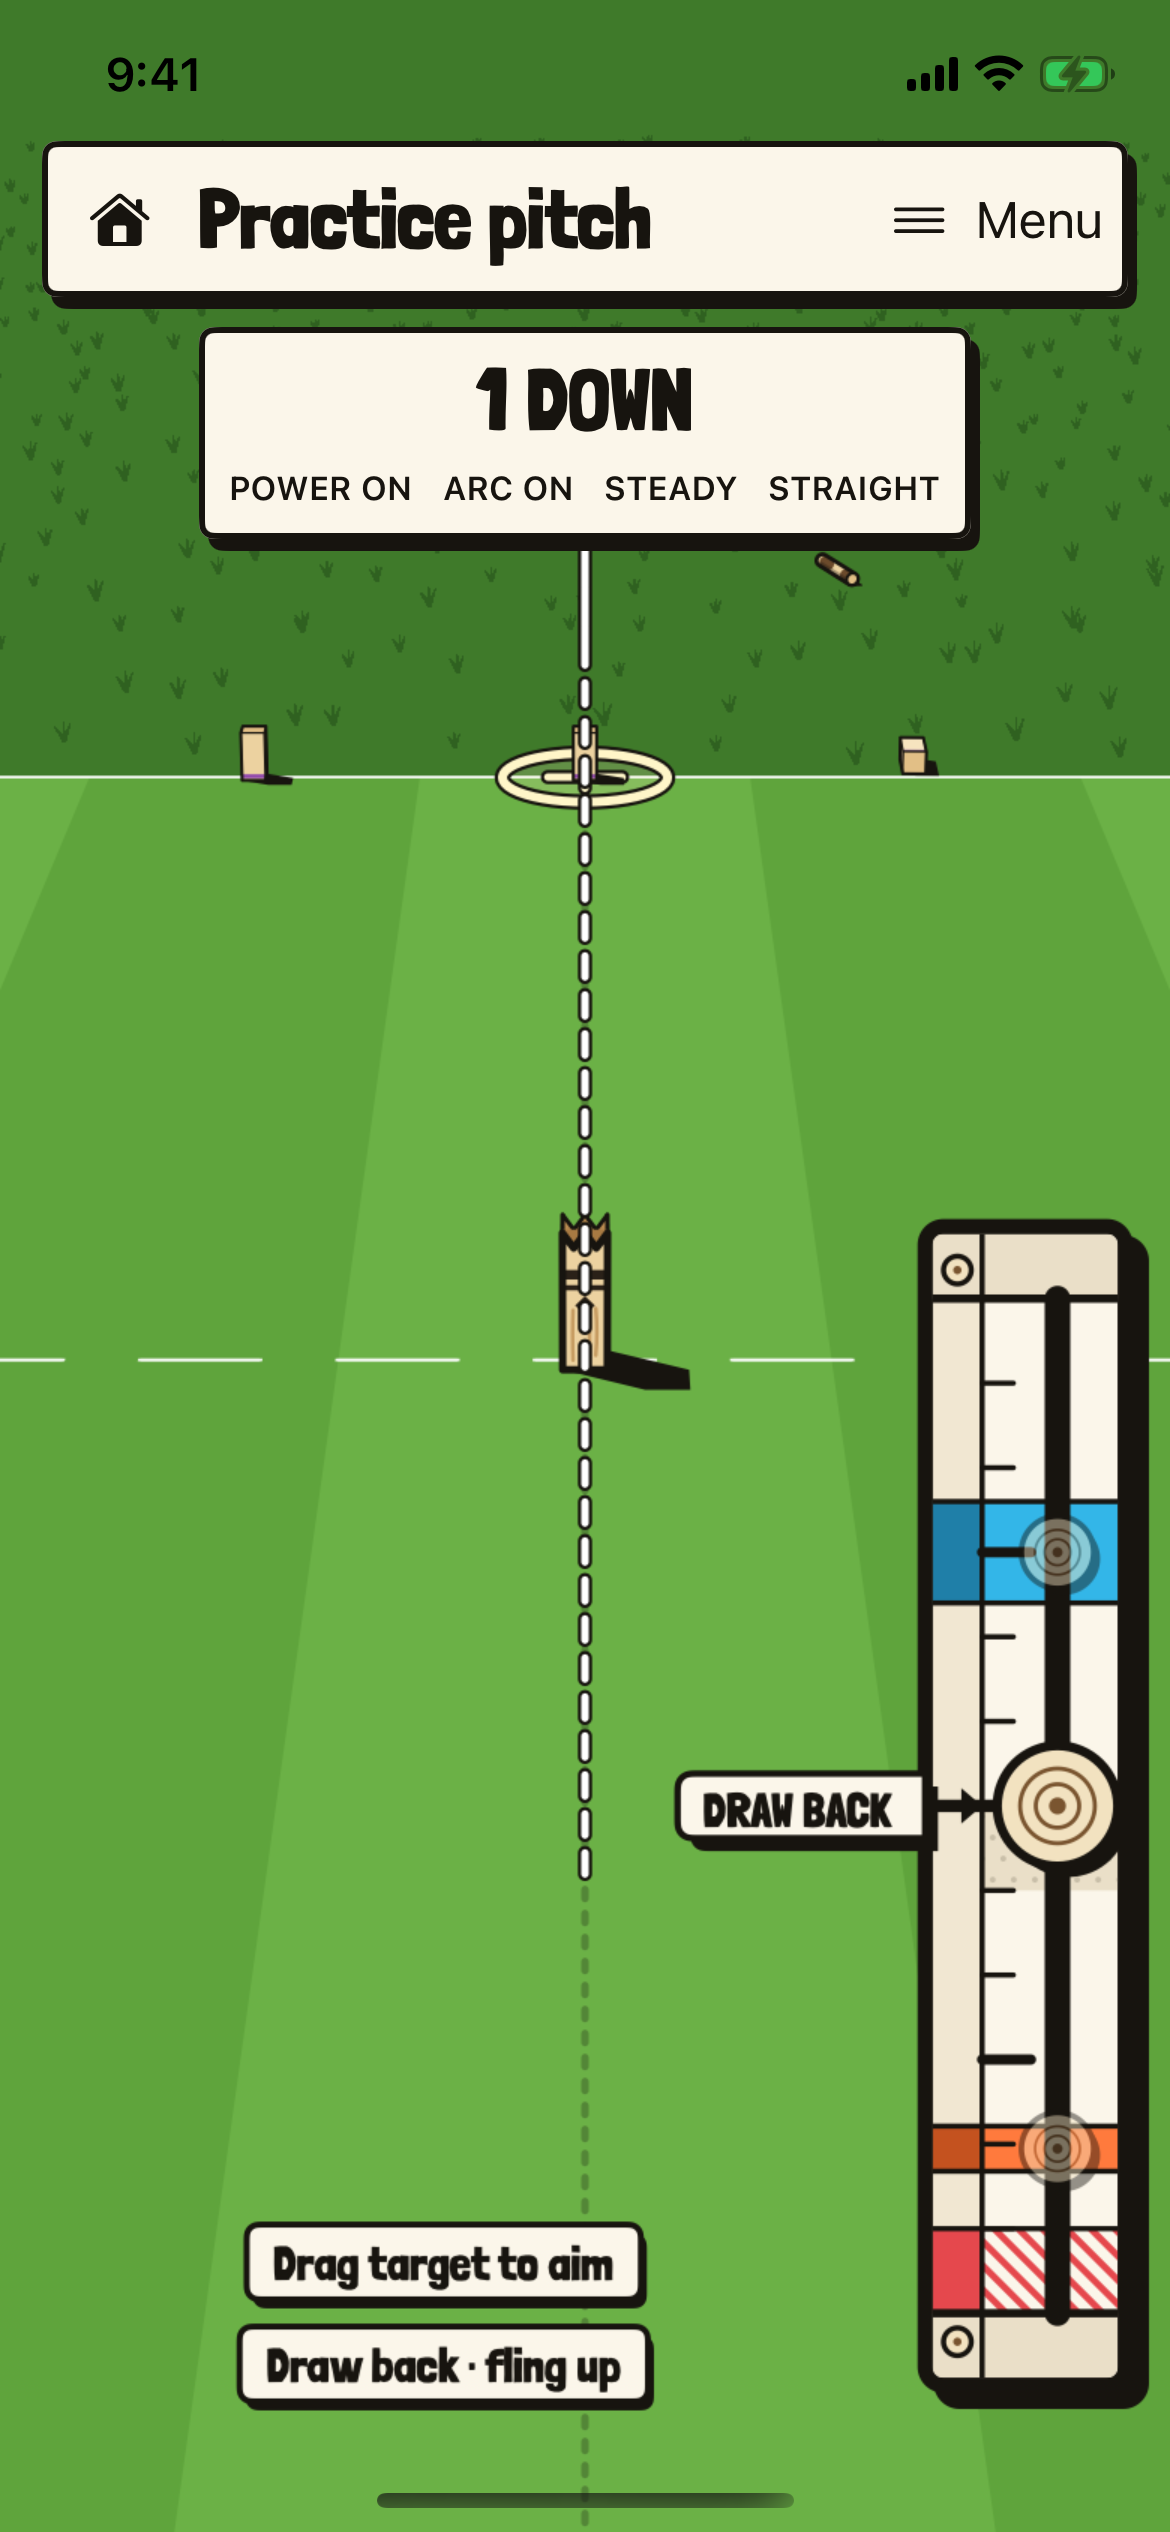
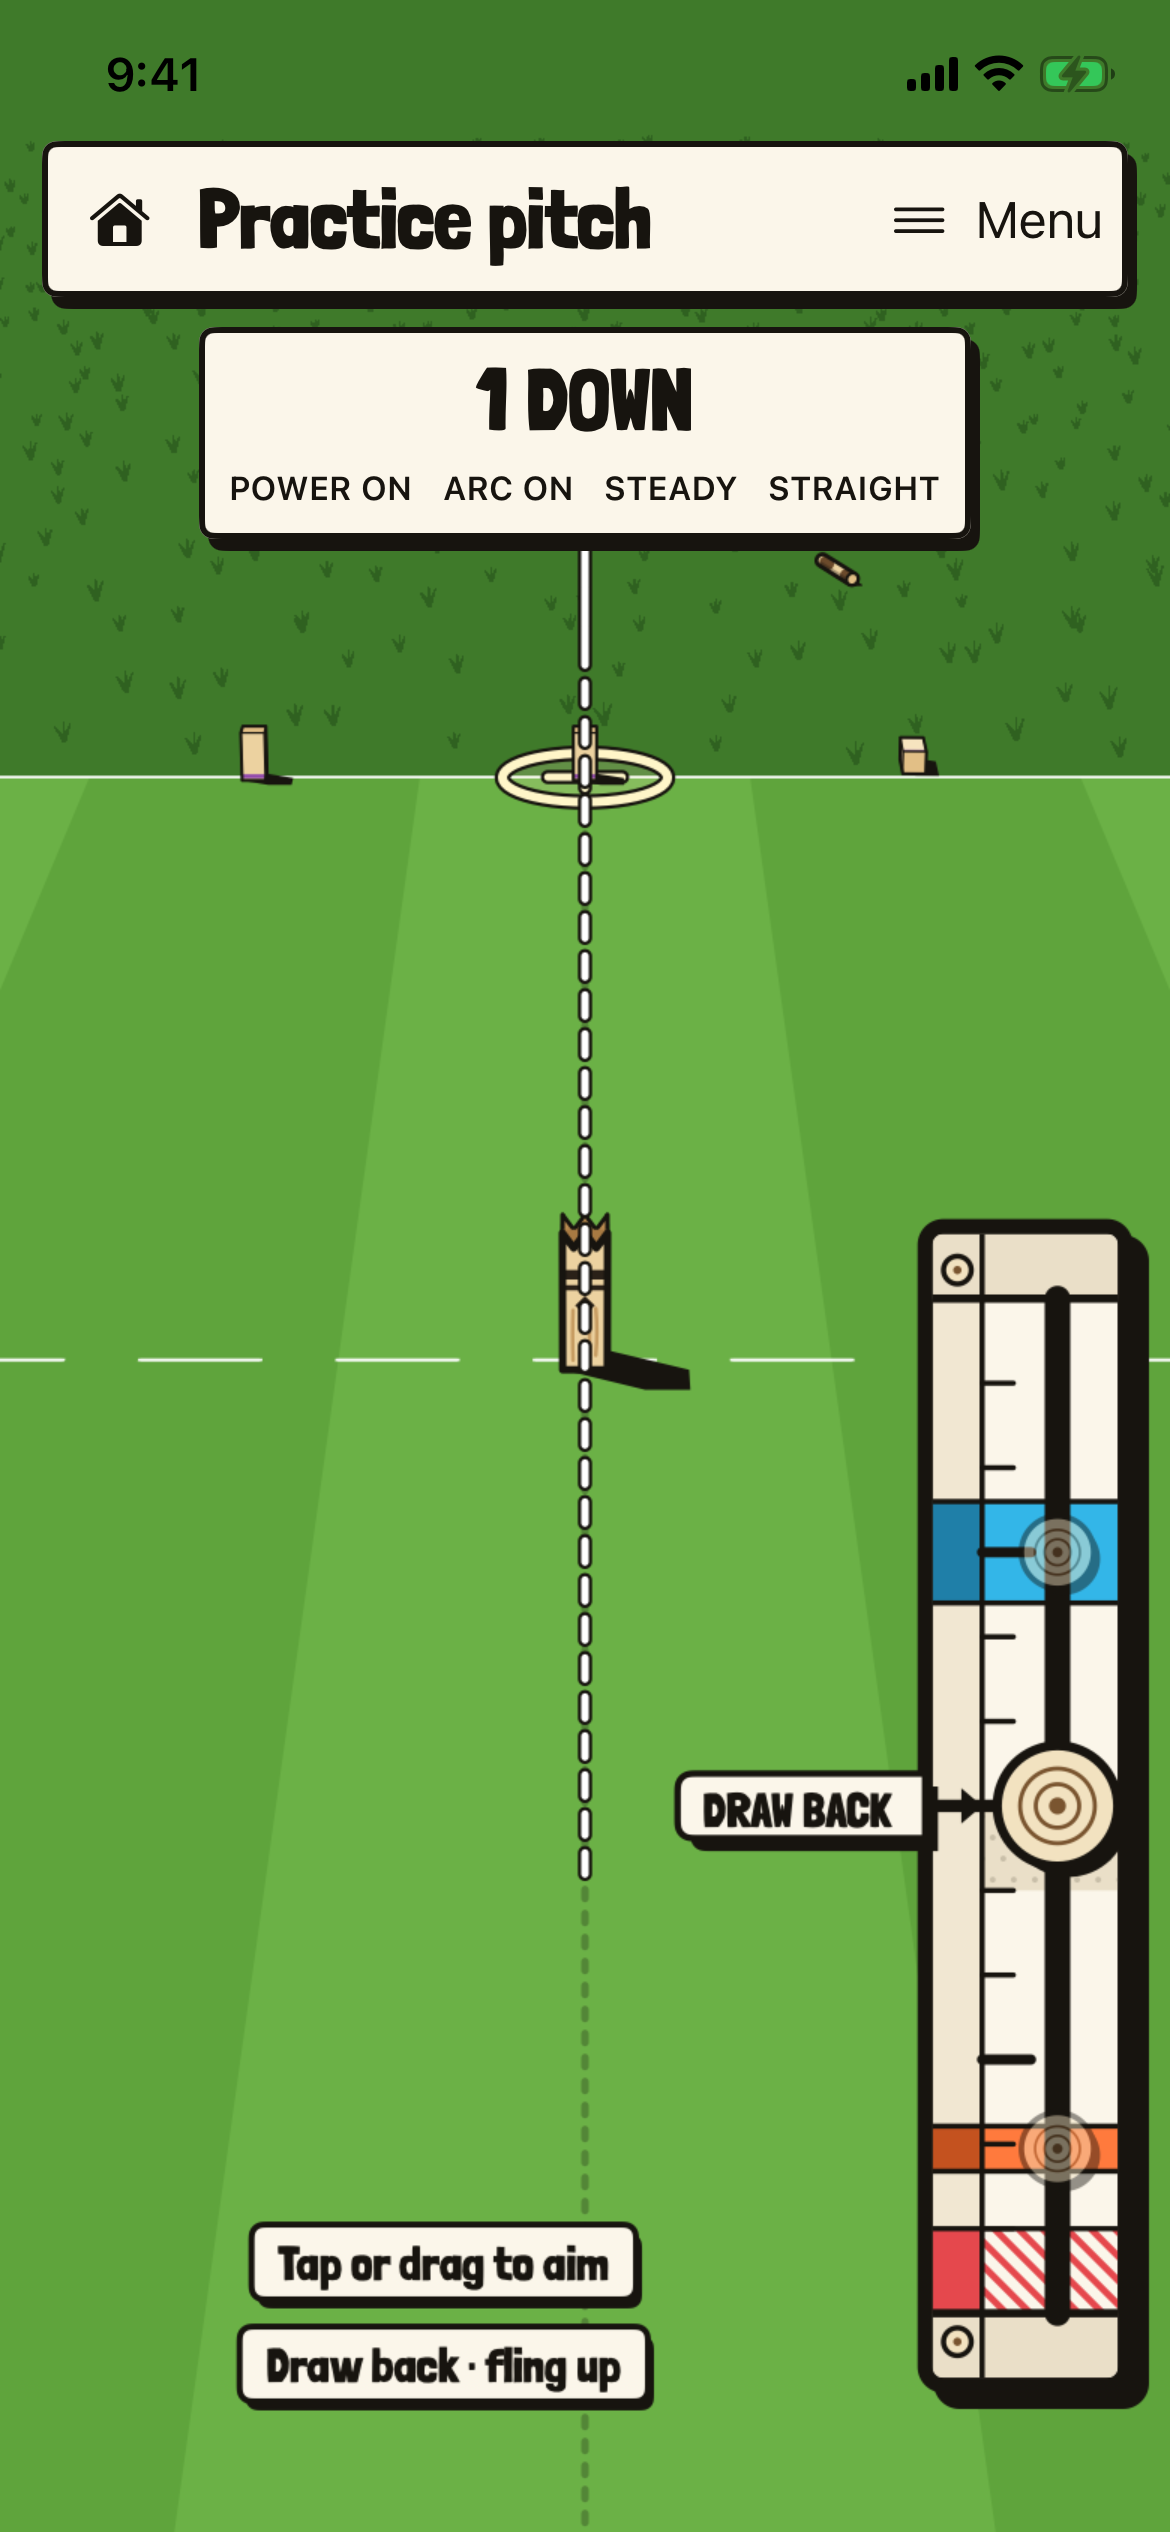
Review pictures for the coach, raise touch and feedback
New review states: the coach on the clock and on the linear meter
(learning, after a SLOW flick, and winding in the band), a raise
dragged past half way, a refused end tapped, and the feedback card in
both kinds online. The review tools pin pitch.throwsMade so the coach
appears only where asked. raise-refused.json is a pass-and-play raise
from the engine's own seeded match with invented team names.

Pictures replaced only where they changed: the new practice hint, the
raise panels, the menus, the score sheet's player ids and the report
card.

Changed region(s): [[0.1846, 0.8736, 0.5538, 0.9048], [0.3385, 0.9672, 0.6769, 0.9984]]

diff --git a/ThrowingWoodKit/Tests/KubbRendererTests/ControlsTests.swift b/ThrowingWoodKit/Tests/KubbRendererTests/ControlsTests.swift
@@ -459,6 +459,25 @@ import simd
     #expect(dragged && refusedSeen)
   }
 
+  /// Writes Fixtures/solo/raise-refused.json: the first raise of the seed 5 match
+  /// (invented teams North and South, pass and play) where the rules refuse one end,
+  /// for the review picture of a refused tap. Run with TW_WRITE_RAISE_FIXTURE=refused.
+  @Test(.enabled(if: ProcessInfo.processInfo.environment["TW_WRITE_RAISE_FIXTURE"] == "refused"))
+  func writeRaiseRefusedFixture() throws {
+    let acts = try realRaises()
+    for nth in 0..<16 {
+      guard let app = try atRealRaise(acts, nth), let need = app.need else { break }
+      let oks = need.ends?.map { $0.ok != false } ?? []
+      guard oks.contains(false) && oks.contains(true) else { continue }
+      let out = URL(fileURLWithPath: #filePath).deletingLastPathComponent()
+        .appending(path: "Fixtures/solo/raise-refused.json")
+      try Data(app.engine.call("snapshot").utf8).write(to: out, options: .atomic)
+      print("raise-refused: raise \(nth), side \(need.side ?? "?"), ends \(oks)")
+      return
+    }
+    Issue.record("no raise with a refused end")
+  }
+
   /// Writes Fixtures/solo/raise-many.json: the first raise of two or more kubbs
   /// for side A in a synthetic match (no names but You and Computer). Run with
   /// TW_WRITE_RAISE_FIXTURE=1; the planner engine throws for side A.

diff --git a/ThrowingWood/GameView.swift b/ThrowingWood/GameView.swift
@@ -64,7 +64,7 @@ struct GameView: View {
             case .onlineEntry, .join, .pitch, .invalidLink: OnlineCards(model: model)
             case .report:
               if let report = model.report {
-                ReportCard(model: model, report: report)
+                ReportCard(model: model, report: report, kind: reviewReportKind)
               }
             case .sheet:
               if let sheet = model.sheet {
@@ -112,6 +112,20 @@ struct GameView: View {
     } message: {
       Text(model.error ?? "")
     }
+  }
+
+  /// The feedback card's kind in the simulator's "report" and "feedback" reviews (else the
+  /// card's default).
+  private var reviewReportKind: ReportCard.Kind? {
+    #if targetEnvironment(simulator)
+      switch ProcessInfo.processInfo.environment["ONLINE_REVIEW"] {
+      case "report": .throw  // the review's match has no last throw yet
+      case "feedback": .feedback
+      default: nil
+      }
+    #else
+      nil
+    #endif
   }
 
   /// The room the linear meter takes, in the safe area's coordinates: the

diff --git a/ThrowingWood/OnlineReview.swift b/ThrowingWood/OnlineReview.swift
@@ -20,7 +20,7 @@
       case "flight": return model.playing
       case "shout": return p?.shouts.isEmpty == false && p?.board.handoff == nil
       case "winner": return p?.board.need?.kind == "over"
-      case "menu", "report": return p?.stage == .match
+      case "menu", "report", "feedback": return p?.stage == .match
       default: return p.map { String(describing: $0.stage) == mode } == true
       }
     }
@@ -33,7 +33,7 @@
           do { try await Task.sleep(for: .milliseconds(50)) } catch { return }
         }
         if mode == "menu" { model.screen = .menu }
-        if mode == "report", let online = model.online {
+        if mode == "report" || mode == "feedback", let online = model.online {
           model.perform {
             model.report = try online.captureReport(size: .zero, scale: 3)
             model.screen = .report

diff --git a/tools/solo-snapshots.py b/tools/solo-snapshots.py
@@ -12,7 +12,8 @@ ROOT = Path(__file__).resolve().parents[1]
 MODES = {
     "home": None, "options": None, "menu": "aim", "verdict": "aim", "handoff": "aim", "aim": "aim", "plan": "aim",
     "arc": "aim", "tilt": "aim", "flight": "aim", "raise": "raise", "raisemany": "raise-many",
-    "raiseauto": "raise-many", "raiserest": "raise-many", "punish": "punish", "computer": "computer",
+    "raiseauto": "raise-many", "raiserest": "raise-many", "raisedrag": "raise",
+    "raiserefused": "raise-refused", "punish": "punish", "computer": "computer",
     "winner": "over", "sheet": "over",
 }
 # The match with the linear meter (and the nudge) beside the plan's sliders:
@@ -28,7 +29,16 @@ METER_SHOTS = {
     "linear-right-nudge": ("nudge", "aim", "linear", "right"),
     "linear-left-nudge": ("nudge", "aim", "linear", "left"),
     "clock-nudge": ("nudge", "aim", "clock", "right"),
+    # the coach line over the prompt, for a device yet to make 3 throws, and led
+    # by the SLOW verdict on the throw after a slow flick
+    "coach": ("coach", "aim", "clock", "right"),
+    "coach-slow": ("coachslow", "aim", "clock", "right"),
+    "linear-right-coach": ("coach", "aim", "linear", "right"),
+    "linear-left-coach": ("coach", "aim", "linear", "left"),
+    "linear-right-coach-slow": ("coachslow", "aim", "linear", "right"),
 }
+# every other shot is a device that has learned the throw (no coach line)
+LEARNING = {"coach", "coachslow"}
 SHOTS = {**{m: (m, f, "clock", "right") for m, f in MODES.items()}, **METER_SHOTS}
 APP = "com.throwingwood.app"
 
@@ -61,6 +71,7 @@ def capture(phone, args):
                 shutil.copyfile(src, tmp / "review-solo.json")
             sim("launch", "--terminate-running-process", udid, APP,
                 "-pitch.meter", meter, "-pitch.meterSide", side,
+                "-pitch.throwsMade", "0" if mode in LEARNING else "9",
                 env={**os.environ, "SIMCTL_CHILD_MATCH_REVIEW": mode}, stdout=subprocess.DEVNULL)
             deadline = time.monotonic() + 30
             while not ready.exists() or ready.read_text() != mode:

diff --git a/tools/meter-snapshots.py b/tools/meter-snapshots.py
@@ -35,6 +35,9 @@ SHOTS = {
     "linear-right-nudge-flick": ("nudge", "linear", "right", {"NUDGE_AT": "1.7"}),
     "linear-right-nudge-still": ("nudge", "linear", "right", {"NUDGE_STILL": "1"}),
     "linear-left-nudge-back": ("nudge", "linear", "left", {"NUDGE_AT": "1.4"}),
+    # the coach line following the stroke, for a device yet to make 3 throws
+    "clock-coach-wind": ("wind", "clock", "right", {"THROWS_MADE": "0"}),
+    "linear-right-coach-wind": ("wind", "linear", "right", {"THROWS_MADE": "0"}),
 }
 
 
@@ -72,7 +75,9 @@ def capture(device, args):
             env = {**os.environ, "SIMCTL_CHILD_PITCH_REVIEW": mode}
             env.update({"SIMCTL_CHILD_" + k: v for k, v in extra.items()})
             sim("launch", "--terminate-running-process", udid, APP,
-                "-pitch.meter", meter, "-pitch.meterSide", side, env=env, stdout=subprocess.DEVNULL)
+                "-pitch.meter", meter, "-pitch.meterSide", side,
+                # a learned device unless the shot asks for the coach line
+                "-pitch.throwsMade", extra.get("THROWS_MADE", "9"), env=env, stdout=subprocess.DEVNULL)
             deadline = time.monotonic() + 30
             while not ready.exists():
                 if time.monotonic() > deadline:

diff --git a/tools/online-snapshots.py b/tools/online-snapshots.py
@@ -7,7 +7,7 @@ import subprocess
 
 ROOT = Path(__file__).resolve().parents[1]
 MODES = (
-    "entry share join host guest flight shout handoff winner menu report newer older "
+    "entry share join host guest flight shout handoff winner menu report feedback newer older "
     "connecting reconnecting notFound full unreachable replaced"
 ).split()
 PHONES = ["iPhone 16e", "iPhone 17 Pro Max"]
